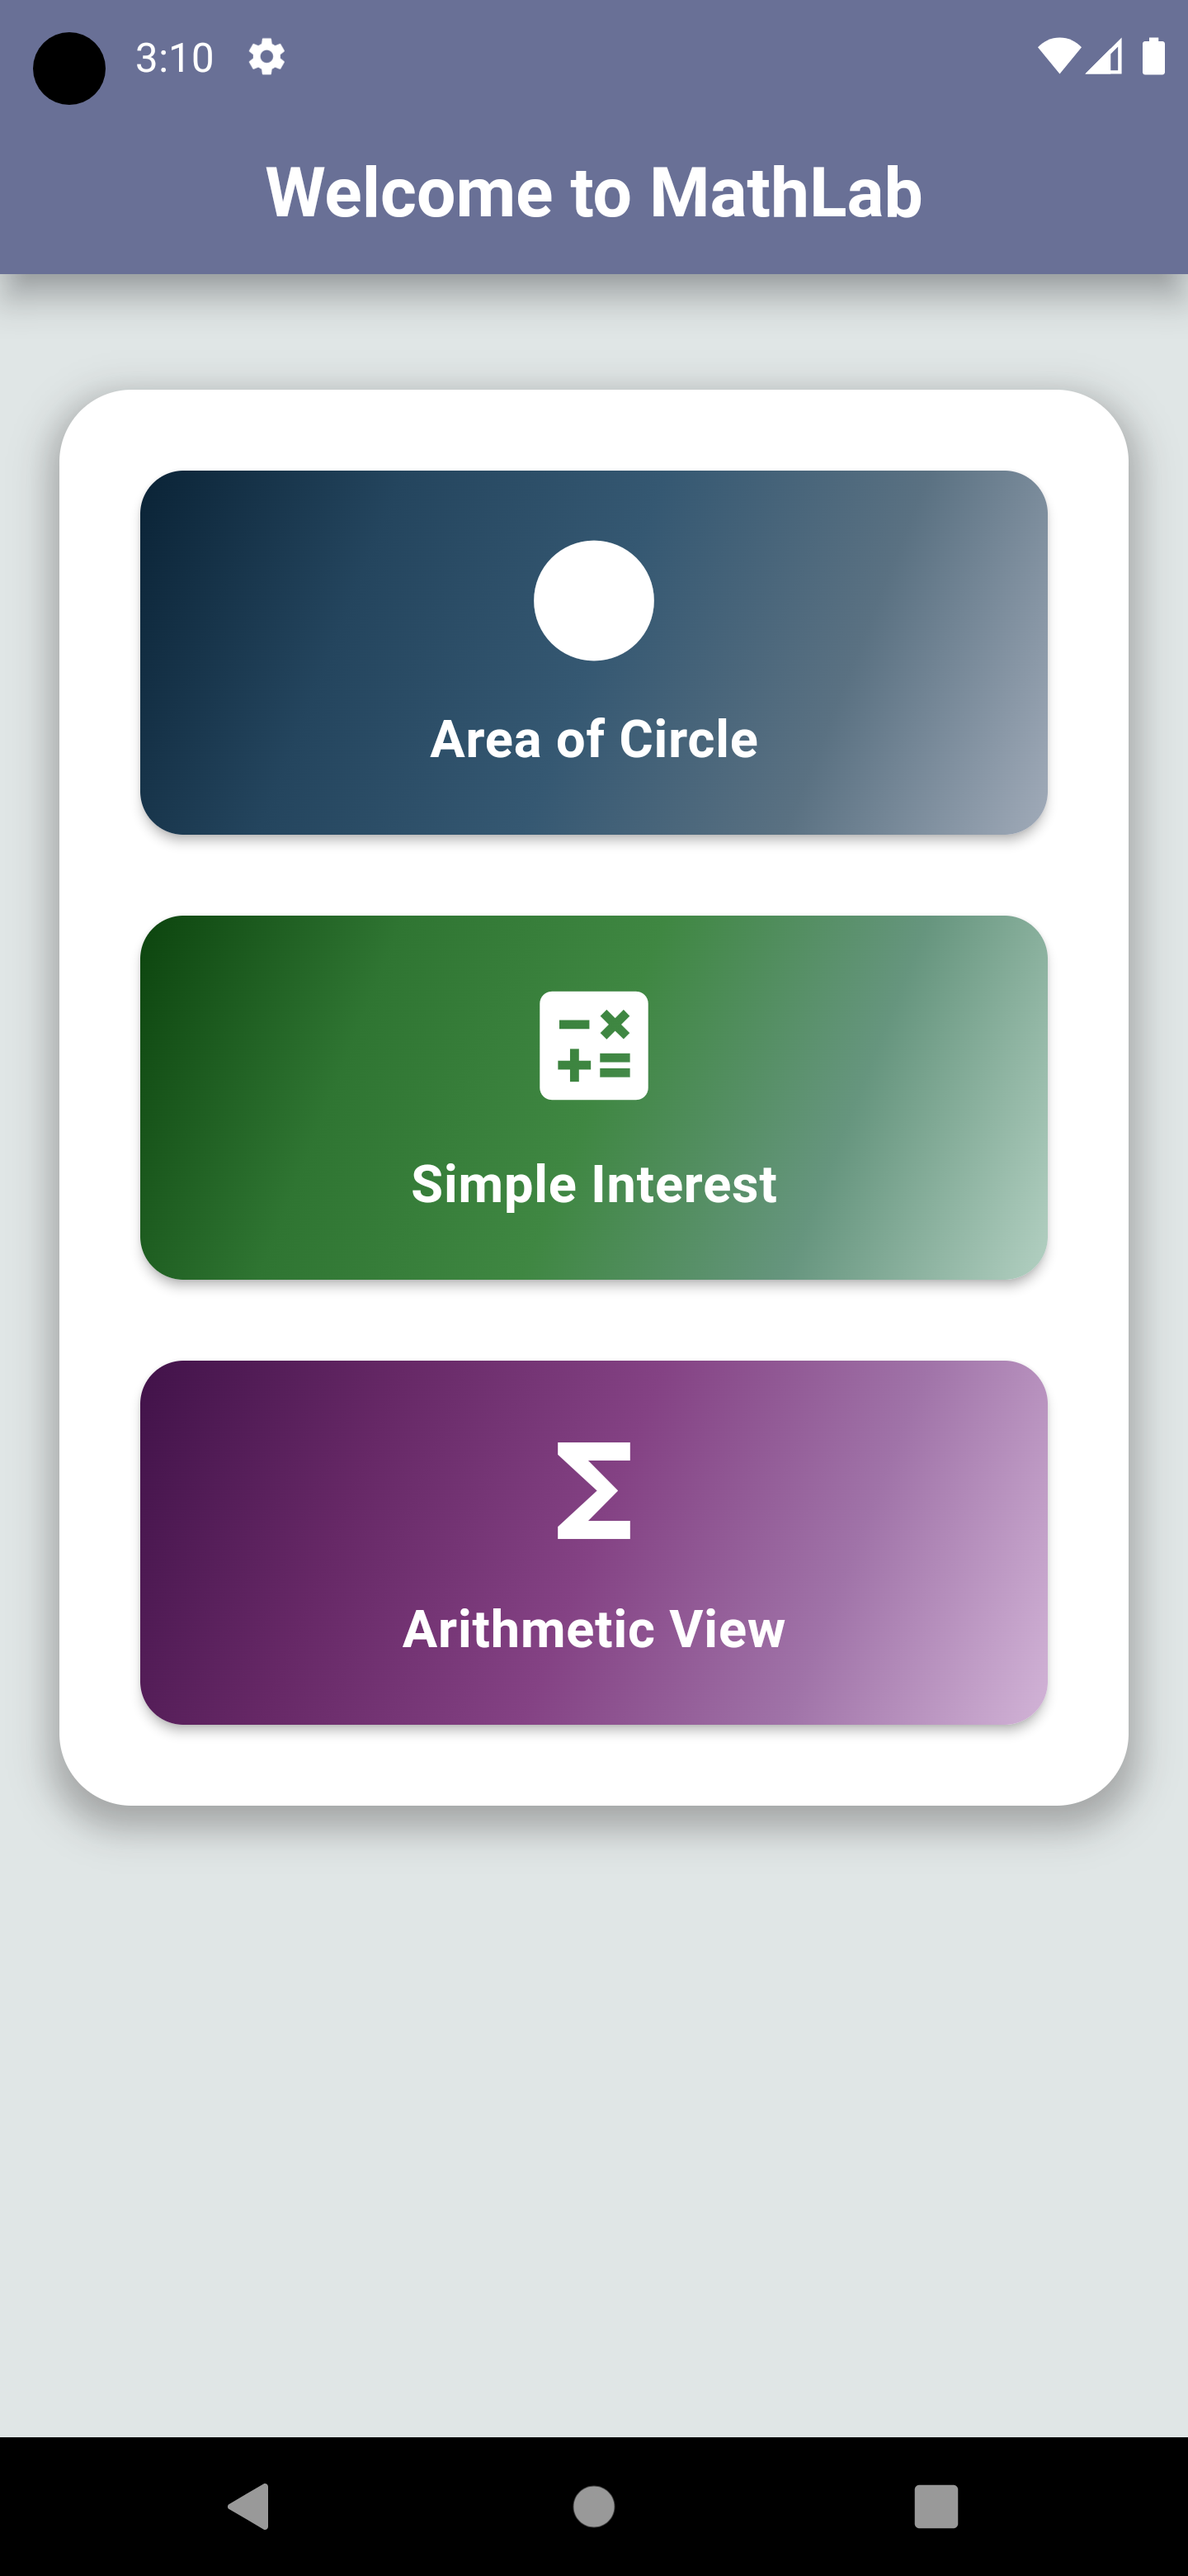
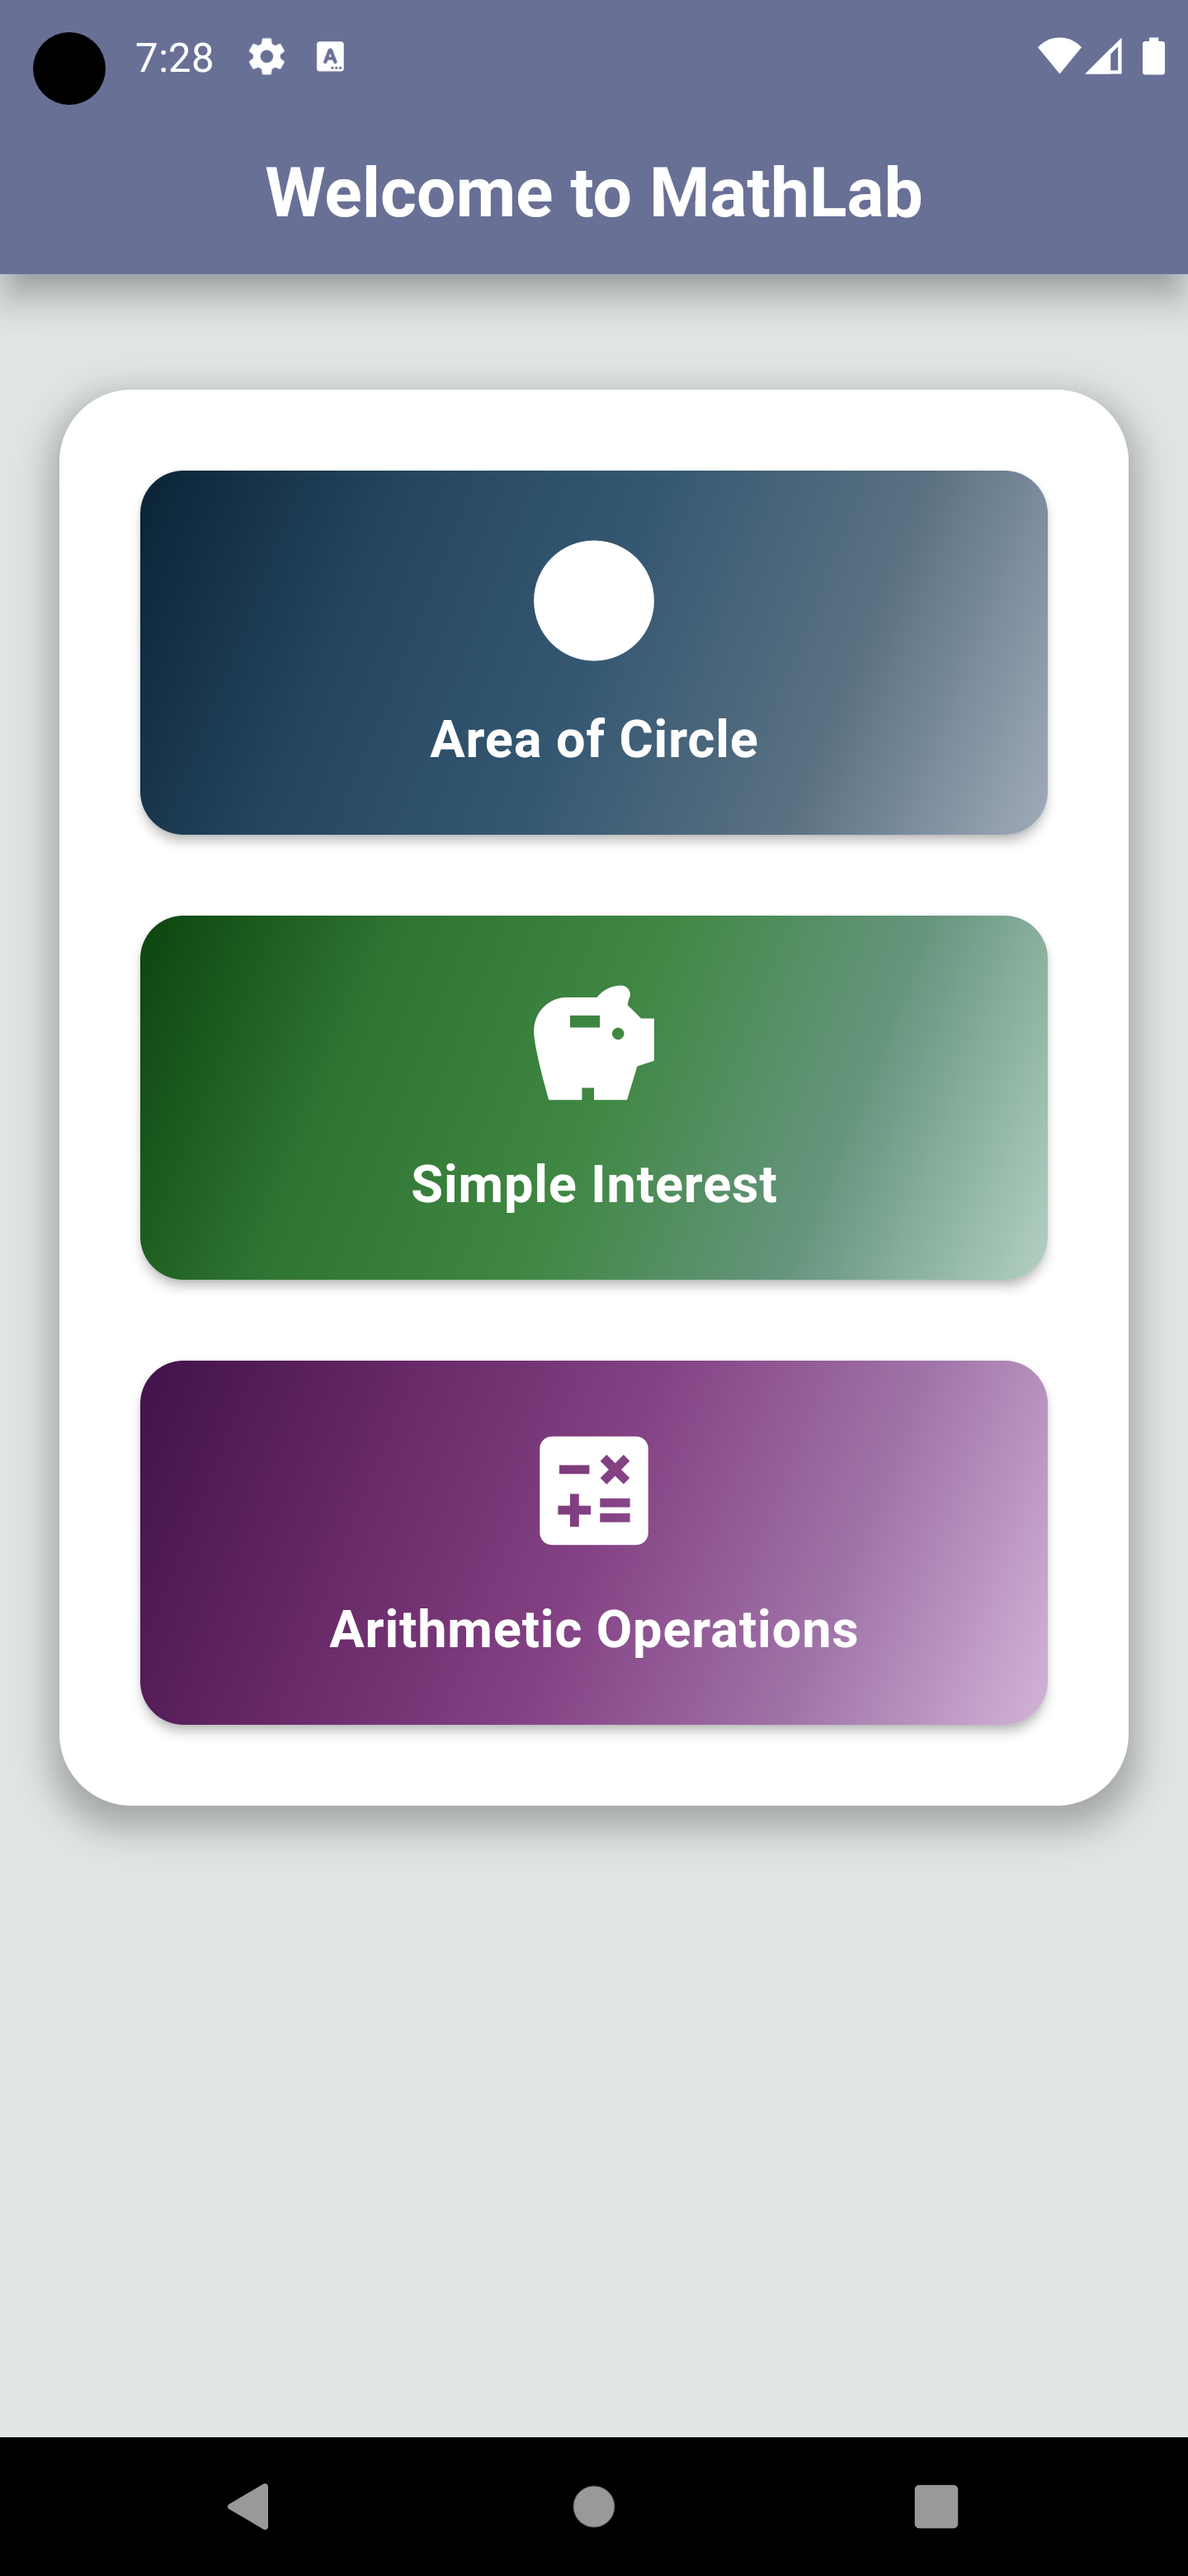
Arithmetic View complete

diff --git a/lib/view/arithmetic_view.dart b/lib/view/arithmetic_view.dart
@@ -8,114 +8,181 @@ class ArithmeticView extends StatefulWidget {
 }
 
 class _ArithmeticViewState extends State<ArithmeticView> {
-  // int first = 0;
-  // int second = 0;
-
-  final firstController = TextEditingController(text: "2");
-  final secondController = TextEditingController(text: "3");
+  // default value (easy for testing)
+  final firstController = TextEditingController(text: "3");
+  final secondController = TextEditingController(text: "2");
   int result = 0;
 
-  // Global key for form state
-  // Without GlobalKey, you’d have no direct access to methods
-  // like validate() or reset() for the Form widget.
   final myKey = GlobalKey<FormState>();
 
   @override
   Widget build(BuildContext context) {
     return Scaffold(
       appBar: AppBar(
-        title: const Text('Arithmetic View'),
+        title: const Text(
+          'Arithmetic Operations',
+          style: TextStyle(
+            fontWeight: FontWeight.bold,
+            color: Colors.white,
+          ),
+        ),
         centerTitle: true,
-        elevation: 0,
+        elevation: 10,
+        backgroundColor: const Color.fromARGB(255, 106, 117, 148),
+        shadowColor: const Color.fromARGB(255, 3, 1, 22),
+        iconTheme: const IconThemeData(color: Colors.white),
+        // to change the color of 'back' icon
       ),
-      body: Padding(
-        padding: const EdgeInsets.all(10),
+      backgroundColor: const Color.fromARGB(255, 224, 230, 230),
+      // background color of body
+      body: SingleChildScrollView(
+        padding: const EdgeInsets.all(15),
         child: Form(
           key: myKey,
           child: Column(
+            crossAxisAlignment: CrossAxisAlignment.stretch,
             children: [
-              TextFormField(
-                // required for validator
-                // onChanged: (value) {
-                //   first = int.tryParse(value) ?? 0;
-                // },
-                controller: firstController,
-                keyboardType: TextInputType.number,
-                decoration: const InputDecoration(
-                  labelText: 'Enter first number',
-                  border: OutlineInputBorder(),
+              const SizedBox(height: 20),
+
+              // User Input Card
+              Card(
+                elevation: 10,
+                shadowColor: Colors.black45,
+                shape: RoundedRectangleBorder(
+                  borderRadius: BorderRadius.circular(10),
                 ),
-                validator: (value) {
-                  if (value == null || value.isEmpty) {
-                    return 'Please enter first number';
+                child: Padding(
+                  padding: const EdgeInsets.all(16),
+                  child: Column(children: [
+                    const SizedBox(height: 15),
+
+                    // First Number
+                    TextFormField(
+                      controller: firstController,
+                      keyboardType: TextInputType.number,
+                      decoration: const InputDecoration(
+                        labelText: 'Enter first number',
+                        border: OutlineInputBorder(),
+                      ),
+                      validator: (value) {
+                        if (value == null || value.isEmpty) {
+                          return 'Please enter first number';
+                        }
+                        return null;
+                      },
+                    ),
+                    const SizedBox(height: 30),
+
+                    // Second Number
+                    TextFormField(
+                      controller: secondController,
+                      keyboardType: TextInputType.number,
+                      decoration: const InputDecoration(
+                        labelText: 'Enter second number',
+                        border: OutlineInputBorder(),
+                      ),
+                      validator: (value) {
+                        if (value == null || value.isEmpty) {
+                          return 'Please enter second number';
+                        }
+                        return null;
+                      },
+                    ),
+                    const SizedBox(height: 10),
+                  ]),
+                ),
+              ),
+              const SizedBox(height: 20),
+
+              // Result Card
+              Card(
+                elevation: 3,
+                color: const Color.fromARGB(158, 162, 171, 196),
+                shape: RoundedRectangleBorder(
+                  borderRadius: BorderRadius.circular(10),
+                ),
+                child: Padding(
+                  padding: const EdgeInsets.symmetric(vertical: 20),
+                  child: Text(
+                    'Result: $result',
+                    textAlign: TextAlign.center,
+                    style: const TextStyle(
+                        fontSize: 30, fontWeight: FontWeight.bold),
+                  ),
+                ),
+              ),
+              const SizedBox(height: 20),
+
+              // Addition Button
+              ElevatedButton(
+                onPressed: () {
+                  if (myKey.currentState!.validate()) {
+                    setState(() {
+                      result = int.parse(firstController.text) +
+                          int.parse(secondController.text);
+                    });
                   }
-                  return null;
                 },
+                style: ElevatedButton.styleFrom(
+                  padding: const EdgeInsets.symmetric(vertical: 15),
+                  shape: RoundedRectangleBorder(
+                    borderRadius: BorderRadius.circular(8),
+                  ),
+                  backgroundColor: const Color.fromARGB(179, 163, 212, 180),
+                ),
+                child: const Text(
+                  'Addition',
+                  style: TextStyle(fontSize: 18),
+                ),
               ),
-
-              // Invisible box
               const SizedBox(height: 10),
 
-              TextFormField(
-                // required for validator
-                // onChanged: (value) {
-                //   second = int.tryParse(value) ?? 0;
-                // },
-                controller: secondController,
-                keyboardType: TextInputType.number,
-                decoration: const InputDecoration(
-                  labelText: 'Enter second number',
-                  border: OutlineInputBorder(),
-                ),
-                validator: (value) {
-                  if (value == null || value.isEmpty) {
-                    return 'Please enter second number';
+              // Subtraction Button
+              ElevatedButton(
+                onPressed: () {
+                  if (myKey.currentState!.validate()) {
+                    setState(() {
+                      result = int.parse(firstController.text) -
+                          int.parse(secondController.text);
+                    });
                   }
-                  return null;
                 },
-              ),
-
-              const SizedBox(height: 10),
-
-              Text(
-                'Result: $result',
-                style: const TextStyle(fontSize: 30),
-              ),
-              const SizedBox(height: 10),
-              SizedBox(
-                width: double.infinity,
-                child: ElevatedButton(
-                  onPressed: () {
-                    // Page lai refresh garako
-                    if (myKey.currentState!.validate()) {
-                      setState(() {
-                        // result = first + second;
-                        result = int.parse(firstController.text) +
-                            int.parse(secondController.text);
-                      });
-                    }
-                  },
-                  child: const Text('Addition'),
+                style: ElevatedButton.styleFrom(
+                  padding: const EdgeInsets.symmetric(vertical: 15),
+                  shape: RoundedRectangleBorder(
+                    borderRadius: BorderRadius.circular(8),
+                  ),
+                  backgroundColor: const Color.fromARGB(179, 163, 212, 180),
+                ),
+                child: const Text(
+                  'Subtraction',
+                  style: TextStyle(fontSize: 18),
                 ),
               ),
-
               const SizedBox(height: 10),
 
-              SizedBox(
-                width: double.infinity,
-                child: ElevatedButton(
-                  onPressed: () {
-                    if (myKey.currentState!.validate()) {
-                      setState(() {
-                        // result = first - second;
-                        result = int.parse(firstController.text) -
-                            int.parse(secondController.text);
-                      });
-                    }
-                  },
-                  child: const Text('Subtraction'),
+              // Multiplication Button
+              ElevatedButton(
+                onPressed: () {
+                  if (myKey.currentState!.validate()) {
+                    setState(() {
+                      result = int.parse(firstController.text) *
+                          int.parse(secondController.text);
+                    });
+                  }
+                },
+                style: ElevatedButton.styleFrom(
+                  padding: const EdgeInsets.symmetric(vertical: 15),
+                  shape: RoundedRectangleBorder(
+                    borderRadius: BorderRadius.circular(8),
+                  ),
+                  backgroundColor: const Color.fromARGB(179, 163, 212, 180),
                 ),
-              )
+                child: const Text(
+                  'Multiplication',
+                  style: TextStyle(fontSize: 18),
+                ),
+              ),
             ],
           ),
         ),

diff --git a/lib/view/dashboard_view.dart b/lib/view/dashboard_view.dart
@@ -28,7 +28,7 @@ class DashboardView extends StatelessWidget {
       body: SingleChildScrollView(
         child: Column(
           children: [
-            const SizedBox(height: 40),
+            const SizedBox(height: 40), // Gap above the box
             Center(
               child: Container(
                 width: MediaQuery.of(context).size.width * 0.9,
@@ -139,7 +139,7 @@ class DashboardView extends StatelessWidget {
                           child: const Column(
                             mainAxisAlignment: MainAxisAlignment.center,
                             children: [
-                              Icon(Icons.calculate,
+                              Icon(Icons.savings,
                                   size: 50, color: Colors.white),
                               SizedBox(height: 10),
                               Text(
@@ -157,7 +157,7 @@ class DashboardView extends StatelessWidget {
                     ),
                     const SizedBox(height: 20),
 
-                    // Arithmetic View Card
+                    // Arithmetic Operations Card
                     Card(
                       shape: RoundedRectangleBorder(
                         borderRadius: BorderRadius.circular(15.0),
@@ -191,11 +191,11 @@ class DashboardView extends StatelessWidget {
                           child: const Column(
                             mainAxisAlignment: MainAxisAlignment.center,
                             children: [
-                              Icon(Icons.functions,
+                              Icon(Icons.calculate,
                                   size: 50, color: Colors.white),
                               SizedBox(height: 10),
                               Text(
-                                'Arithmetic View',
+                                'Arithmetic Operations',
                                 style: TextStyle(
                                   fontSize: 18,
                                   fontWeight: FontWeight.bold,
